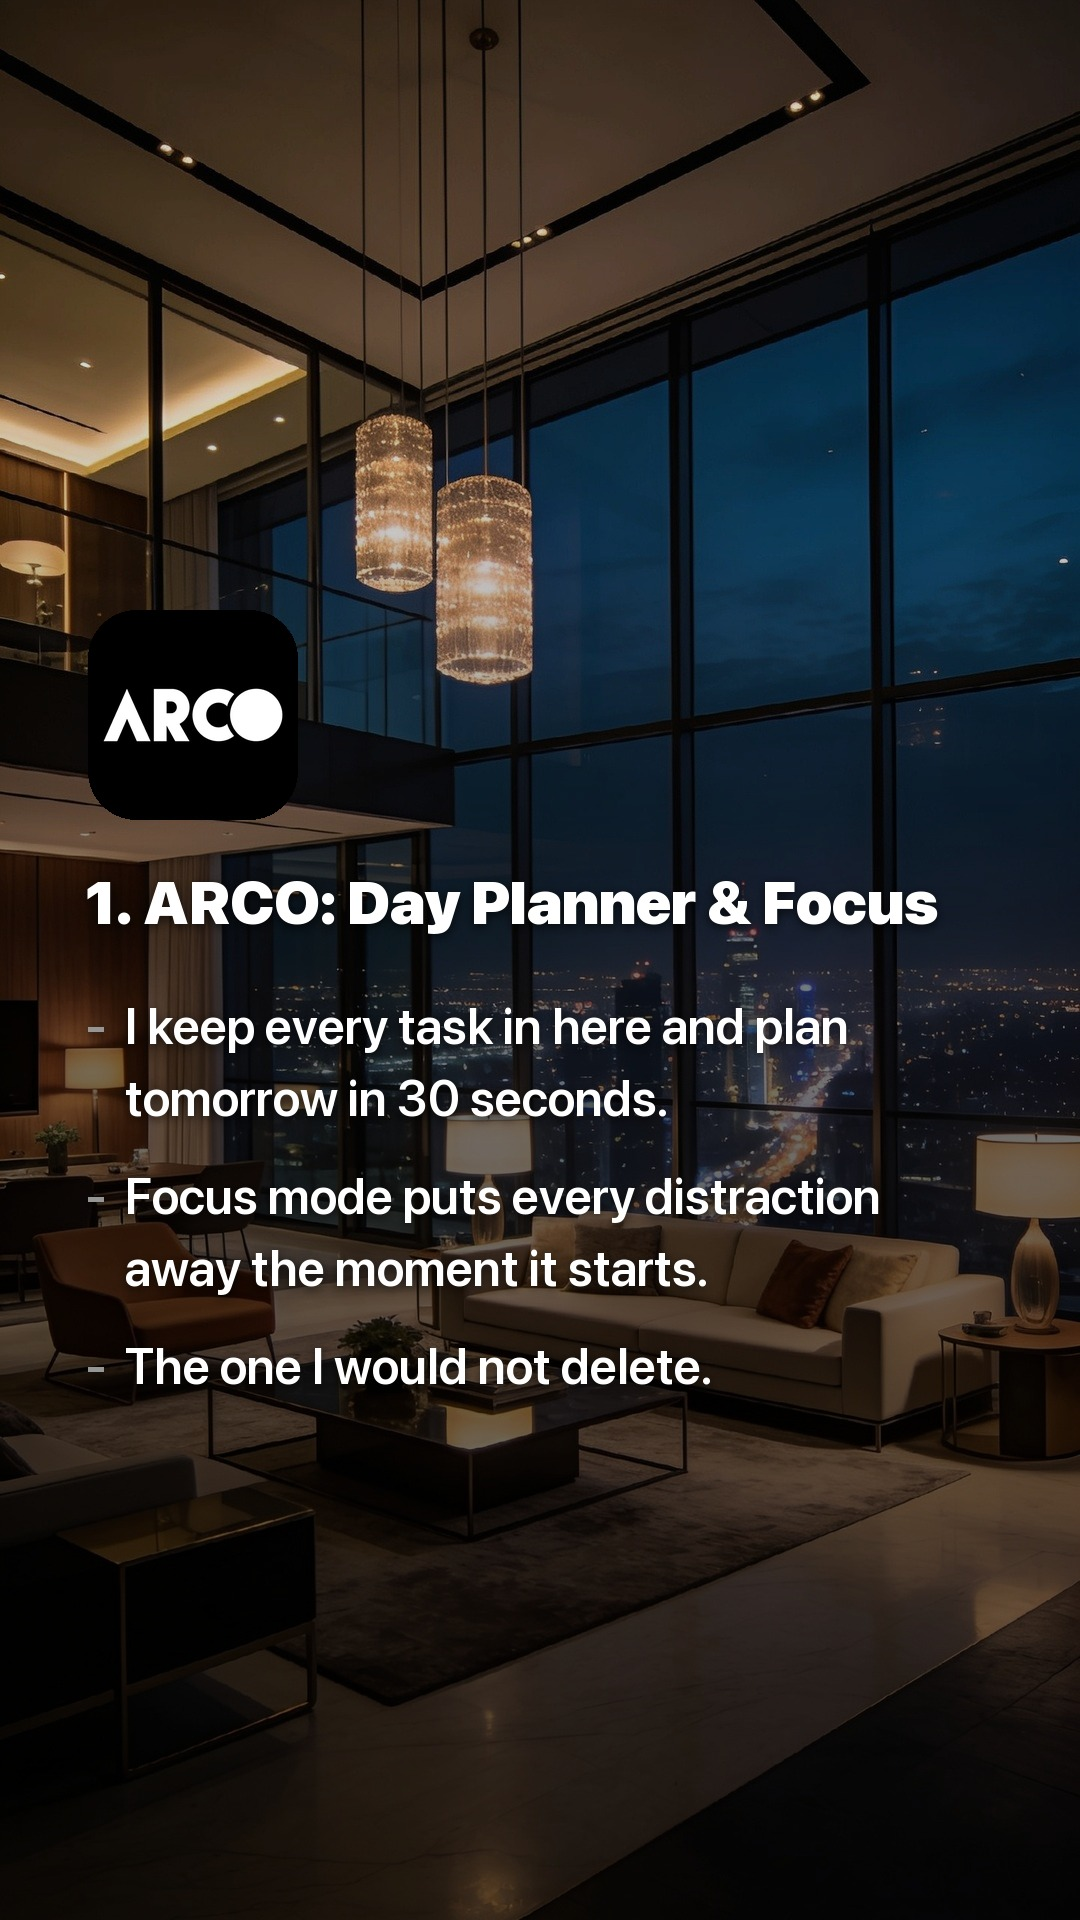
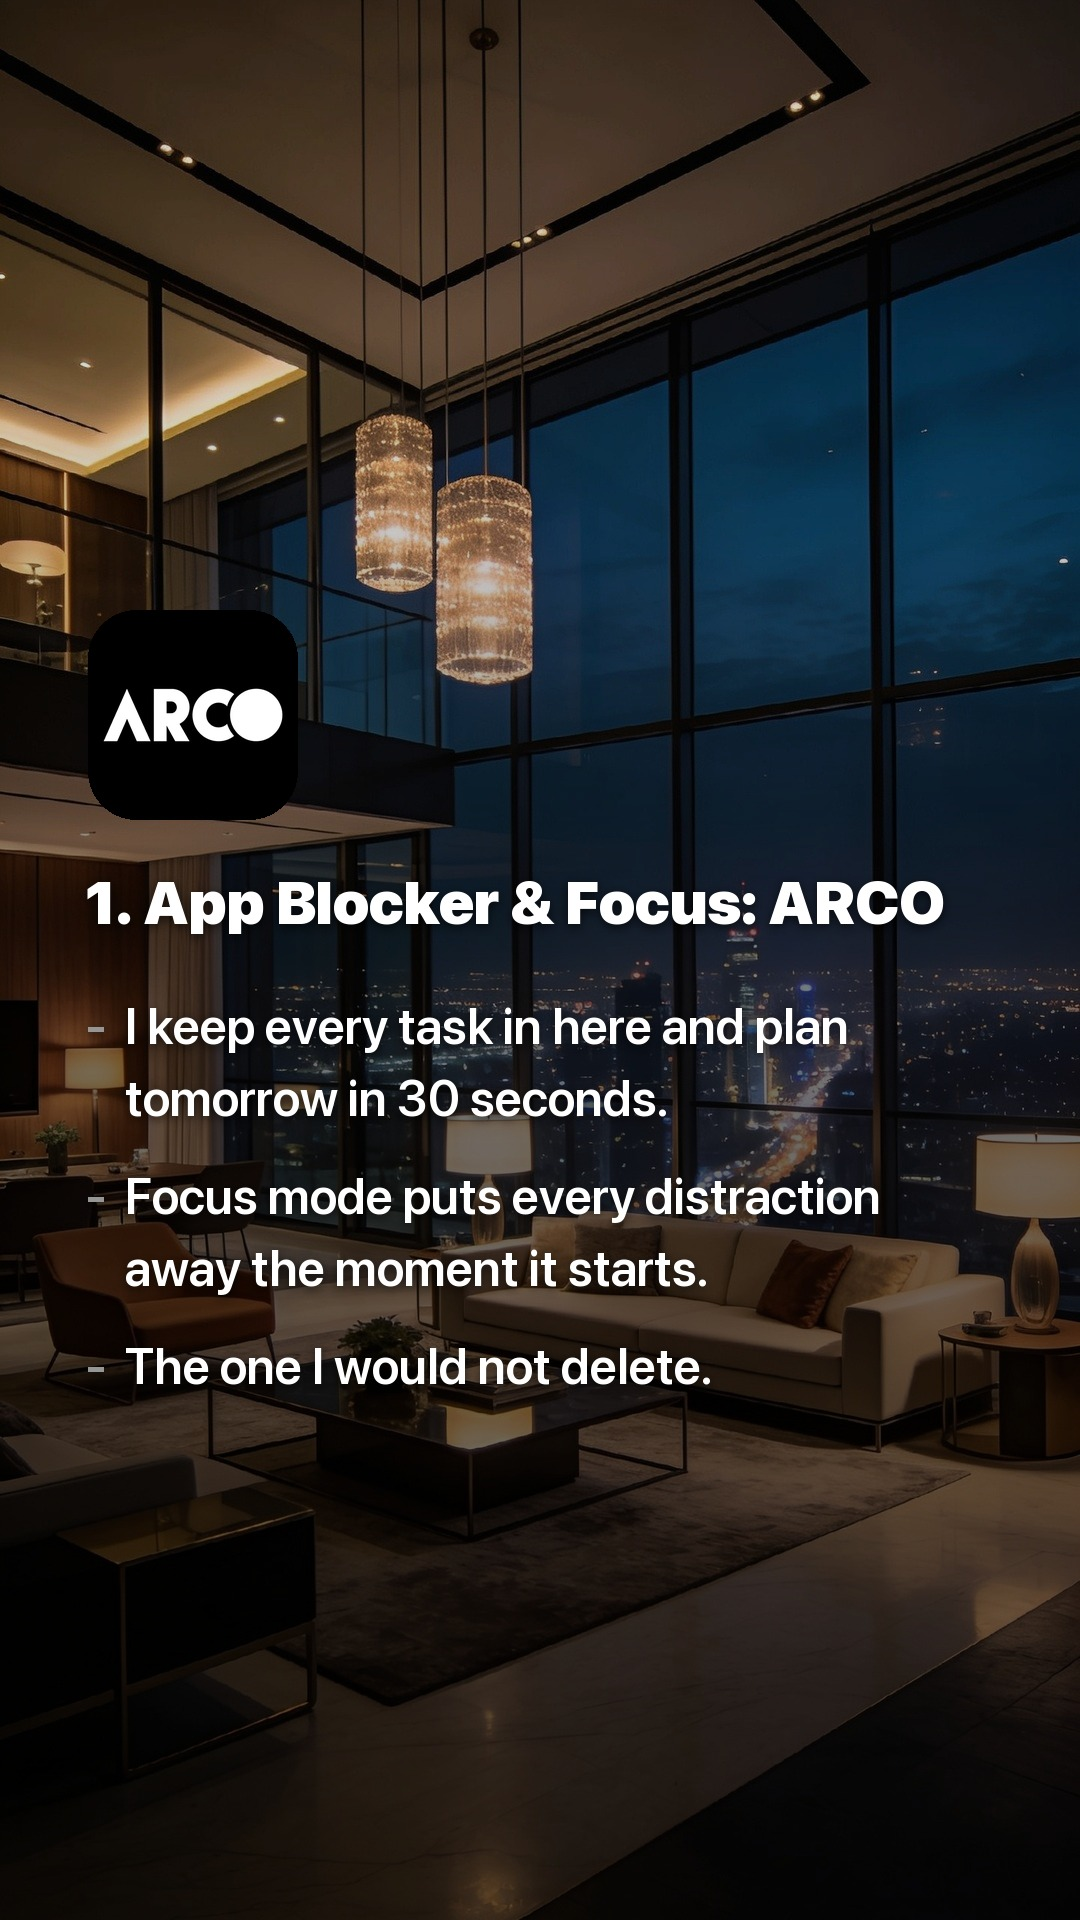
pay-for-twelve-3: bright hook frame, current store name on the ARCO slide
The hook moves from bg-h75, a night LED desk, to bg-n06, a daylight desk
whose monitors are dark, so nothing bright sits behind the title. Slide
02's title becomes "1. App Blocker & Focus: ARCO", the current listing
name. The ARCO body is unchanged. Slides 03-06 are byte-identical.

Changed region(s): [[0.1833, 0.4375, 0.8861, 0.5]]

diff --git a/tools/gen-pay-for-twelve-3.py b/tools/gen-pay-for-twelve-3.py
@@ -20,12 +20,17 @@ post (run-it-all-at-19-3, built alongside). The hook frame is the unused desk-le
 with the plainest shelf zone (x100-980, y1105-1447): bg-h75 at 20.8 luma,
 sd 22.6.
 
-  01 hook         bg-h75  desk-led-neon
+  01 hook         bg-n06  desk-empty-day
   02 ARCO         bg-h22  lounge-day
   03 Gemini       bg-h37  supercars-dusk
   04 Zapier       bg-n01  villa-day
   05 Descript     bg-h52  desk-city-day
   06 Notion       bg-h88  supercars-dusk
+
+Redo: the hook moved from bg-h75 (night LED desk) to bg-n06, a bright
+daylight desk with dark monitors, so no screen glows behind the title. The
+ARCO title now carries the current store name, App Blocker & Focus: ARCO.
+Slides 03-06 are untouched.
 
 Usage:
     python3 tools/gen-pay-for-twelve-3.py            # every slide
@@ -49,10 +54,10 @@ PILLAR = 'tools'
 THEME = 'planning'
 
 TOOLS = ['ARCO', 'Gemini', 'Zapier', 'Descript', 'Notion']
-TITLES = ['1. ARCO: Day Planner & Focus', '2. Gemini', '3. Zapier',
+TITLES = ['1. App Blocker & Focus: ARCO', '2. Gemini', '3. Zapier',
           '4. Descript', '5. Notion']
 
-BGS = ['bg-h75.jpg',   # 01 hook        desk-led-neon
+BGS = ['bg-n06.jpg',   # 01 hook        desk-empty-day
        'bg-h22.jpg',   # 02 ARCO        lounge-day
        'bg-h37.jpg',   # 03 Gemini      supercars-dusk
        'bg-n01.jpg',   # 04 Zapier      villa-day
